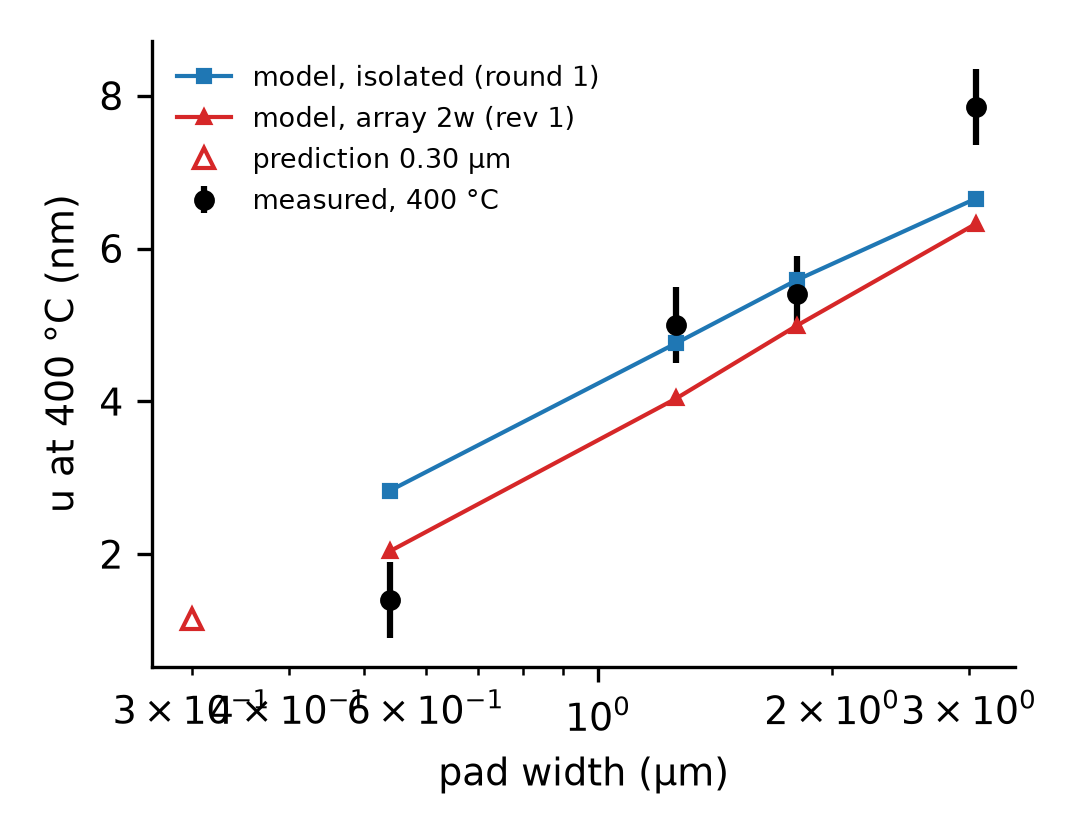
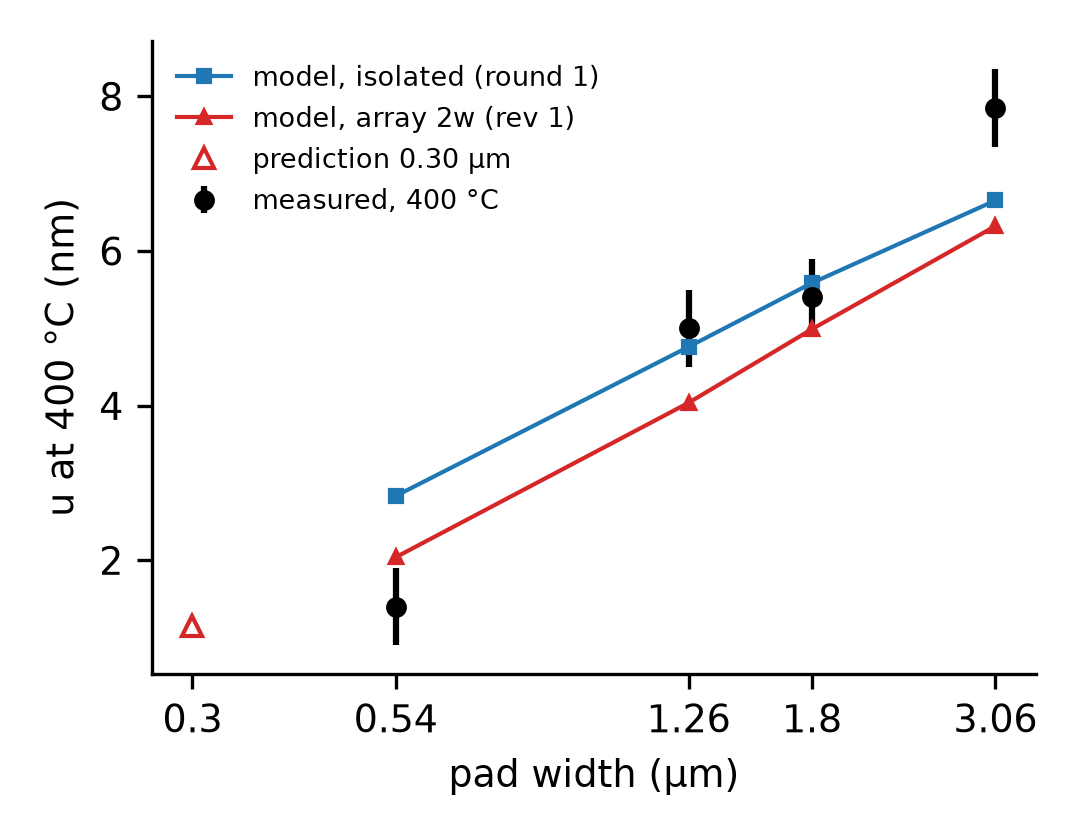
Stage2 report: section 8 (prediction / process window)

diff --git a/src/stage2/stage2_figures.py b/src/stage2/stage2_figures.py
@@ -85,6 +85,7 @@ def fig_size_scaling():
     if p30 is not None:
         ax.plot([0.30], [p30[-1]], "^", color=C["rev"], ms=5, mfc="none", label="prediction 0.30 µm")
     ax.set_xscale("log"); ax.set_xlabel("pad width (µm)"); ax.set_ylabel("u at 400 °C (nm)")
+    ax.set_xticks([0.3, 0.54, 1.26, 1.8, 3.06]); ax.set_xticklabels(["0.3", "0.54", "1.26", "1.8", "3.06"]); ax.minorticks_off()
     ax.legend(frameon=False, fontsize=6.5); fig.tight_layout(); fig.savefig(FIG / "s2_size_scaling.png", dpi=300); plt.close(fig)
 
 

diff --git a/docs/stage2_baseline_report_ko.md b/docs/stage2_baseline_report_ko.md
@@ -100,3 +100,27 @@
 | u(30→400 °C) | 패드 10 1.87, 패드 3 1.32 nm(bonded); 패드 3 sliding 7.38 nm | 실측 없음 | 예측 |
 
 **해석.** 규칙대로는 V5 FAIL(부호). 그러나 실제 적층(캡+라이너)을 넣은 bonded 모델이 E_z가 68과 190 GPa인 두 패드의 **측정** 기울기 크기를 동시에 0.5 %로 맞추고, 부호를 뒤집으면 V6 순위상관도 일치한다. Step 12는 H_sign을 Ayoub의 FEM 곡선(측정보다 26 % 작은 기울기)과 비교해 기각했는데, 측정값과 비교하면 거울상이 정량적으로 성립한다. 따라서 Ayoub 데이터의 ε′zz 부호 규약 확인이 선결 과제이며, 확인되면 (i) 300 nm bonded 모델이 가열 ε′zz를 정량 재현하고 (ii) 400 °C 보유 중 변화는 측벽 완화와 반대 방향이 되어 H_sw는 기각된다. 확인 전까지 H_sw는 **미결**로 둔다. 어느 쪽이든 짧은 시간·낮은 온도(Lin, imec in-situ)에서는 측벽이 bonded임이 V4로 판별된다.
+
+## 8. 예측: 접촉 단계 공정창 (0.54 µm 기준, 300 nm 예측; `results/stage2/predict_*.csv`, 그림 `s2_contact_map_*.png`)
+
+**구성.** u_el = b·(k_top + k_bot)·(T − 25), k(E_z)는 방위별 FEM(0.54 µm 8방위, 0.30 µm 5방위, 배열 셀, imec 채택값)의 2차 적합. 방위는 SO(3) 무작위 두 패드. b = 0.69(0.60–0.93)는 0.54 µm 400 °C에서의 측정/모델 편향(§6). recess는 패드당 N(2.5, 0.5²) nm(IRPS 2026). h_d는 §3의 확산 항(τ₀ 60 s; 비관 100 s·b 0.60, 낙관 20 s·b 0.93). relaxed 측벽 시나리오는 sliding Hill 런(0.54 µm 4.84, 0.30 µm 4.69 nm @400 °C)으로 상한을 둔다.
+
+**방위 효과(bonded, 배열).** 0.54 µm: k = 0.00604 → 0.00580 nm/K([001] → [111]), 폭 4 %. 0.30 µm: 0.00327 → 0.00343(부호 반대, 폭 5 %). 즉 bonded 측벽에서는 방위가 u를 거의 바꾸지 않는다(300 nm 고립 모델 R27/R35–39의 25 % 폭보다 훨씬 작음). relaxed 측벽에서는 Step 11의 sliding 결과대로 무른 방위가 더 크게 돌출한다.
+
+**탄성 항만으로는 접촉이 안 된다.** 0.54 µm, 400 °C: u_el(top+bot) = 3.1 nm(b 적용) vs recess 합 ≈ 5 nm → P_contact(탄성만) = 0.003. 0.30 µm: 1.7 nm → 0. 이는 IRPS 2026의 "0.5 µm급에서 탄성 팽창은 sub-nm"와 같은 결론이다.
+
+**확산 항이 창을 연다 (τ₀ 60 s, θ 123°, 청정 표면, IRPS recess).**
+| 크기 | 250 °C 5/30/120 min | 300 °C 5/30 min | ≥ 350 °C 5 min |
+|---|---|---|---|
+| 0.54 µm | h_d 0.2/1.2/4.6 nm → P 0/0.14/1.00 | 1.1/6.4 → 0.25/1.00 | 4.7 → 1.00 |
+| 0.30 µm | 1.0/5.2/14.5 → 0/1.00/1.00 | 5.0/17 → 1.00 | 1.00 |
+산화 표면(s_ox 0.45): 0.54 µm는 300 °C 30 min부터, 0.30 µm는 250 °C 30 min부터 P = 1. 비관 구간(τ₀ 100 s, b 0.60)에서도 300 °C 30 min(0.54)·250 °C 30 min(0.30)이면 P = 1.
+**확산 시간 상수의 일관성 점검(§3.4)**: τ₀ 20 s만 "350 °C 5 min 완료"(DM2023 Fig 7)와 맞고 60·100 s는 맞지 않는다(t_c 270/807/1345 s). 230 °C 2 h 완료율 0.26–0.78은 DM2023의 비 0.43을 포함한다. 따라서 τ₀ ≈ 20–60 s가 더 그럴듯하며 위 표는 보수적이다.
+
+**레시피 결론(접촉 단계).**
+1. recess 목표 2–3 nm/패드(IRPS)에서 **접촉은 확산이 결정**한다. 탄성 돌출만으로는 400 °C에서도 닫히지 않는다.
+2. 청정 표면·Ta 라이너(θ ≈ 123°)면 0.54 µm는 **300 °C·30 min** 또는 **250 °C·2 h**, 0.30 µm는 **250 °C·30 min**이면 P_contact ≈ 1. 작은 패드일수록 완료가 빠르다(t_c ∝ D^3.7).
+3. 산화 표면(산화 플라즈마·세정 상태)은 h_d를 절반 이하로 줄여 필요 온도를 50 °C 올린다. 라이너 접촉각 θ가 90°에 가까우면(접착 좋은 라이너) h_d → 0이 되어 탄성 창(= recess 합 < 2–3 nm)으로 되돌아간다.
+4. 측벽이 완화(relaxed)되는 장시간·고온 공정에서는 u_el이 2배가 되어 250 °C에서도 탄성 접촉이 가능해지지만(P 0.08–0.98), H_sw는 미결이다(§7).
+
+**300 nm 예측의 불확실도.** u_el(0.30)/u_el(0.54) = 0.56(모델 비; 측정 외삽 아님). 0.54 µm 검증에서 모델이 1.46배 과대였으므로 300 nm 탄성 항은 b 0.60–0.93 구간으로 보고한다: 400 °C에서 패드당 0.73–1.13 nm.
